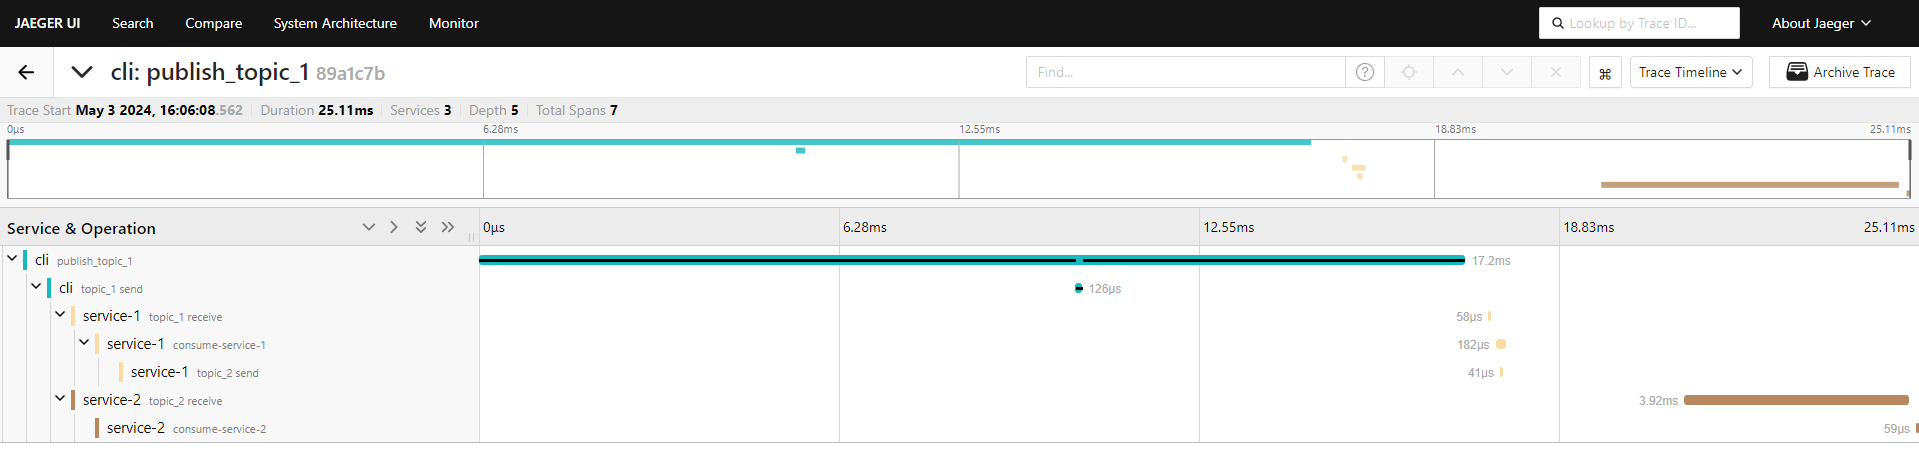
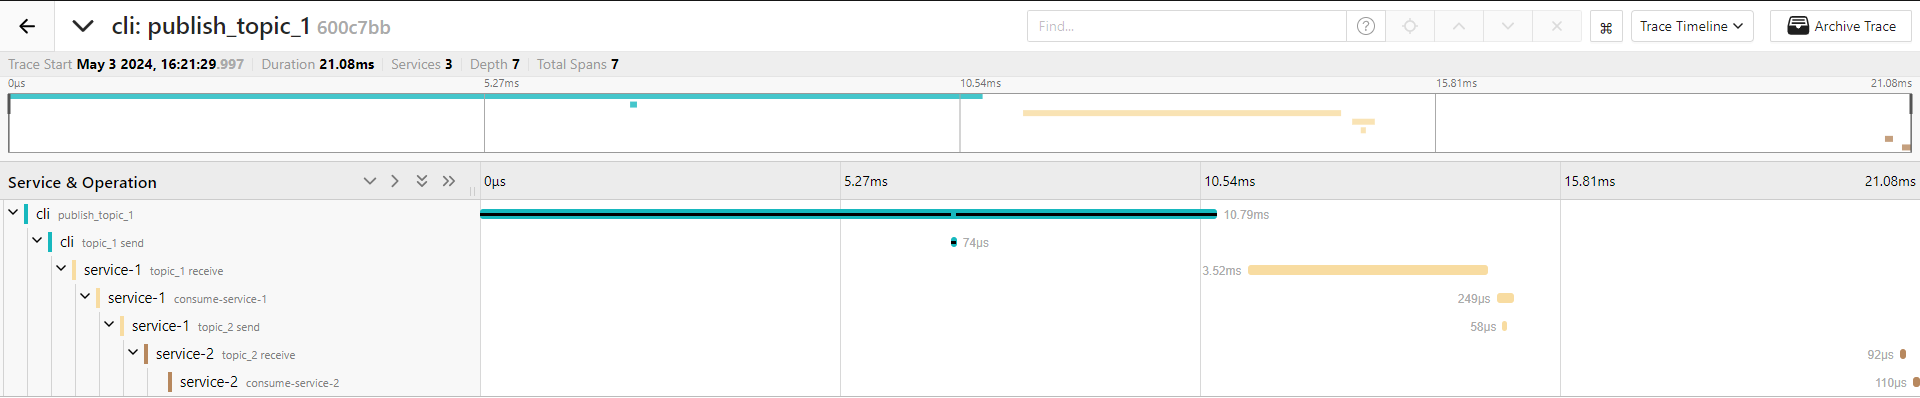
fix nesting

diff --git a/src/otel_demo/service_1/main.py b/src/otel_demo/service_1/main.py
@@ -39,9 +39,7 @@ async def main() -> None:
                 with tracer.start_as_current_span(
                     "consume-service-1", context=trace.set_span_in_context(msg.span)
                 ):
-                    await producer.send(
-                        os.environ["TOPIC_2"], msg.value * 2, headers=list(msg.headers)
-                    )
+                    await producer.send(os.environ["TOPIC_2"], msg.value * 2)
 
 
 if __name__ == "__main__":
